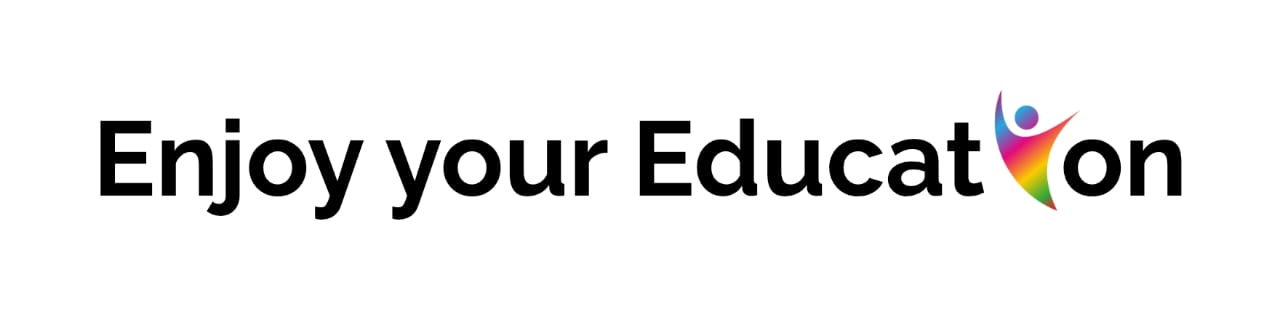
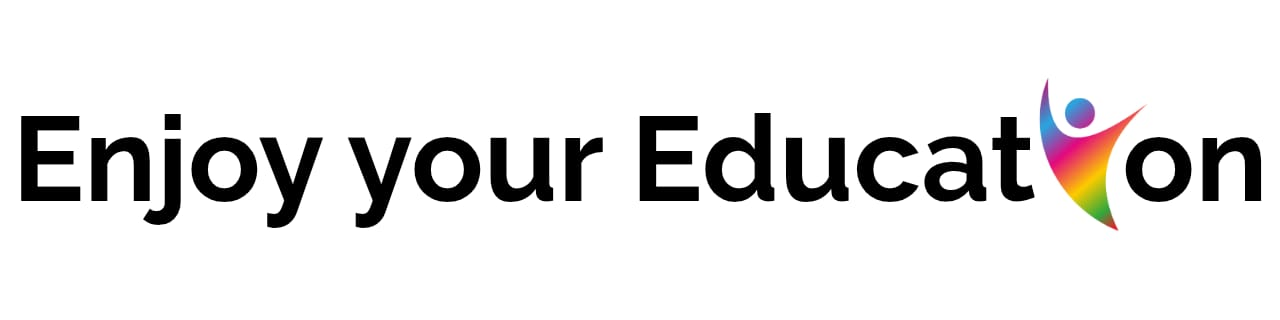
b

Changed region(s): [[0.5, 0.25, 1.0, 0.7188], [0.0, 0.3438, 0.5, 0.7188]]

diff --git a/css/global.css b/css/global.css
@@ -206,7 +206,7 @@ nav img {
 @media (max-width:700px) {
 
     nav .right img {
-        height: 85%;
+        height: 70%;
     }
 
     html {
@@ -221,7 +221,7 @@ nav img {
     /* ? ------------------ Nav ------------------ */
 
     nav {
-        padding: 0 1rem;
+        padding: 0 0.0rem;
     }
 
     nav .left img {
